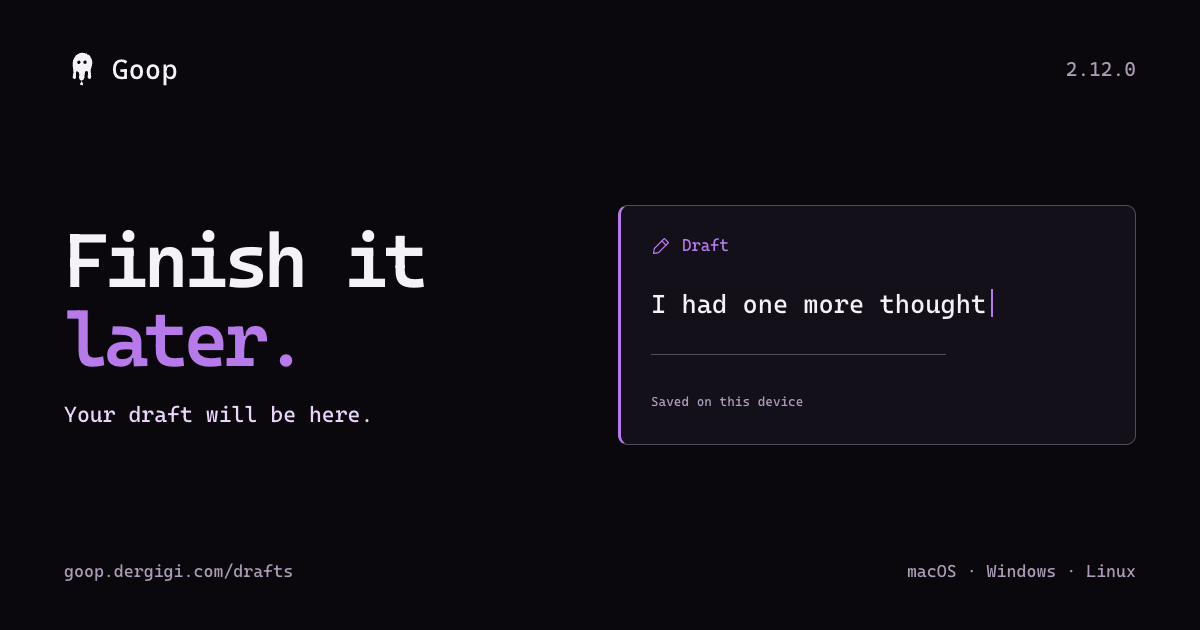
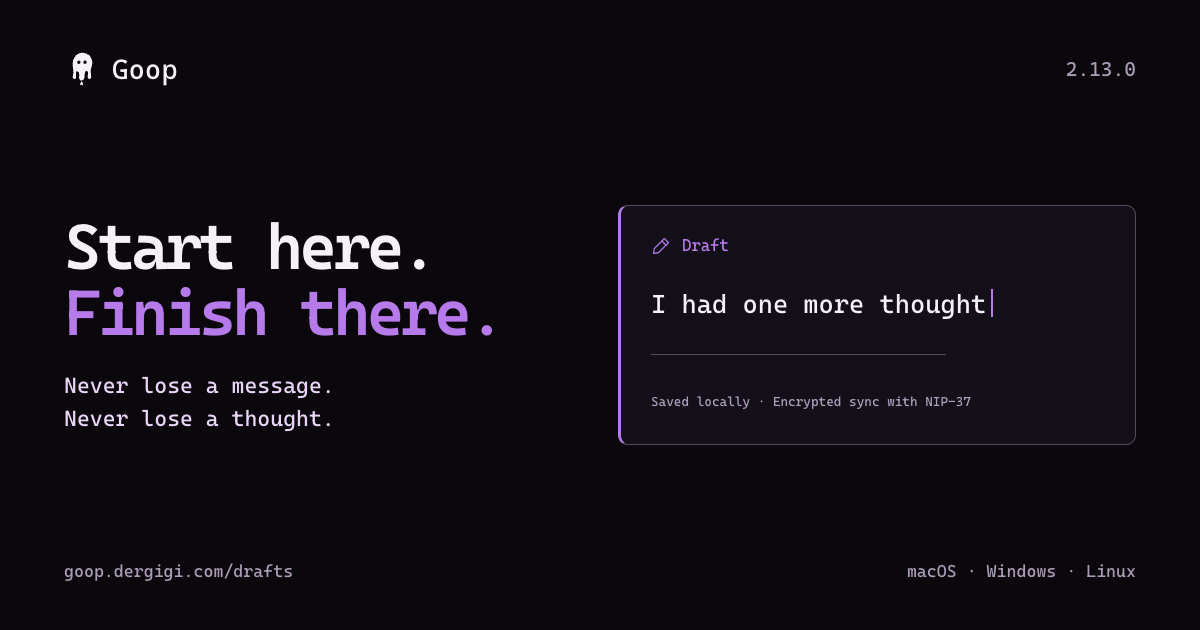
Update Goop 2.13.0 downloads and explain interoperable draft sync

Changed region(s): [[0.0308, 0.3317, 0.4317, 0.6937], [0.5858, 0.6333, 0.8017, 0.6635]]

diff --git a/src/lib/release.ts b/src/lib/release.ts
@@ -9,20 +9,20 @@ const download = (name: string) => `${LATEST}/download/${name}`;
 
 // Used when the GitHub API is unreachable at build time (rate limits, offline).
 const FALLBACK: Release = {
-  version: '2.12.0',
-  publishedAt: '2026-09-18T11:23:38Z',
+  version: '2.13.0',
+  publishedAt: '2026-09-18T18:21:43Z',
   url: LATEST,
   assets: [
-    { name: 'goop-linux-arm64.flatpak', size: 9627936, url: download('goop-linux-arm64.flatpak') },
-    { name: 'goop-linux-arm64.snap', size: 15839232, url: download('goop-linux-arm64.snap') },
-    { name: 'goop-linux-arm64.tar.gz', size: 26942722, url: download('goop-linux-arm64.tar.gz') },
-    { name: 'goop-linux-x64.flatpak', size: 9819840, url: download('goop-linux-x64.flatpak') },
-    { name: 'goop-linux-x64.snap', size: 16084992, url: download('goop-linux-x64.snap') },
-    { name: 'goop-linux-x64.tar.gz', size: 27983742, url: download('goop-linux-x64.tar.gz') },
-    { name: 'goop-macos-arm64.dmg', size: 9373696, url: download('goop-macos-arm64.dmg') },
-    { name: 'goop-macos-x64.dmg', size: 10392613, url: download('goop-macos-x64.dmg') },
-    { name: 'goop-windows-arm64.exe', size: 7441257, url: download('goop-windows-arm64.exe') },
-    { name: 'goop-windows-x64.exe', size: 7899561, url: download('goop-windows-x64.exe') },
+    { name: 'goop-linux-arm64.flatpak', size: 9656320, url: download('goop-linux-arm64.flatpak') },
+    { name: 'goop-linux-arm64.snap', size: 15921152, url: download('goop-linux-arm64.snap') },
+    { name: 'goop-linux-arm64.tar.gz', size: 27032939, url: download('goop-linux-arm64.tar.gz') },
+    { name: 'goop-linux-x64.flatpak', size: 9856664, url: download('goop-linux-x64.flatpak') },
+    { name: 'goop-linux-x64.snap', size: 16146432, url: download('goop-linux-x64.snap') },
+    { name: 'goop-linux-x64.tar.gz', size: 28091022, url: download('goop-linux-x64.tar.gz') },
+    { name: 'goop-macos-arm64.dmg', size: 9419618, url: download('goop-macos-arm64.dmg') },
+    { name: 'goop-macos-x64.dmg', size: 10445909, url: download('goop-macos-x64.dmg') },
+    { name: 'goop-windows-arm64.exe', size: 7472673, url: download('goop-windows-arm64.exe') },
+    { name: 'goop-windows-x64.exe', size: 7935072, url: download('goop-windows-x64.exe') },
     { name: 'SHA256SUMS', size: 880, url: download('SHA256SUMS') },
   ],
 };
